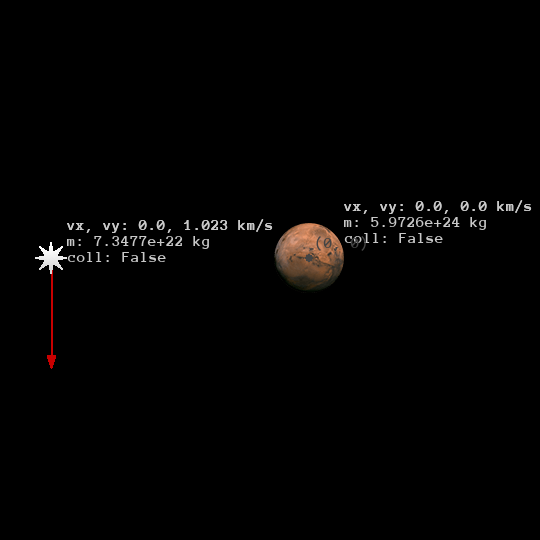
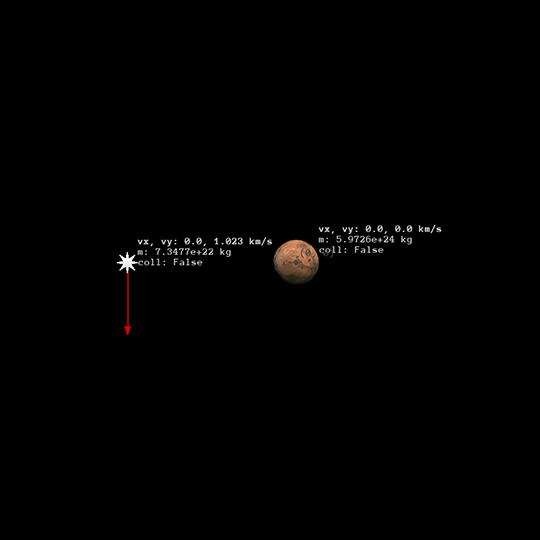
Сохранение
Добавлено:
- Сохранение текущей симуляции в виде папки с названием по типу "save-30-05-21 21-50-44", что соответствует времени в момент сохранения.
- Файл requirements.txt с необходимыми модулями.
- Инструкция запуска.

Изменено:
- Несколько превью симуляций сжаты.
- Изменён README.md.

Changed region(s): [[0.0593, 0.3556, 0.9778, 0.6815], [0.2074, 0.5926, 0.237, 0.6222]]

diff --git a/main.py b/main.py
@@ -24,7 +24,7 @@ else:
     COEFFICIENT = user.size[1] / 1080
 DIST_COEFF = 1e-6 # distance coefficient transformates meters to megameters
 G = 6.67430e-11 # real value = 6.67430e-11. You will need to use decimal to calculate that accurately
-SPEED = 60 * 60 * 24 # simulation speed
+SPEED = 60 * 60 * 24 # simulation speed in seconds
 DT = (1 / user.fps) * SPEED # time step for objects
 deafult_font = pygame.font.Font('data/Anonymous Pro B.ttf', round(24 * COEFFICIENT))
 obj_info_font = pygame.font.Font('data/Anonymous Pro B.ttf', round(16 * COEFFICIENT))
@@ -38,7 +38,7 @@ del(f_s)
 
 
 class obj:
-    def __init__(self, x, y, img, r, m, vx = 0.0, vy = 0.0):
+    def __init__(self, x, y, img, img_name, r, m, vx = 0.0, vy = 0.0):
         self.x = x # object class stores all physical quantities in the SI system
         self.y = y
         self.r = r
@@ -47,6 +47,7 @@ class obj:
         self.vy = vy
         self.img = img
         self.transformed_img = img
+        self.img_name = img_name
         self.coll = False # collision state (True if collision happened)
     def update(self, zoom: float):
         if self.img == 'circle': return
@@ -139,13 +140,16 @@ def init_simulation(obj_list: list, name: str, images: dict, user, COEFFICIENT=1
         obj_list = []
         for i in range(len(sim)):
             if len(sim[i]) != 5 and len(sim[i]) != 7: continue
-            try: img = images[sim[i][2]]
-            except: img = 'circle'
-            aStar = obj(float(sim[i][0]), float(sim[i][1]), img, float(sim[i][3]), float(sim[i][4])) # x, y, image, radius, mass
+            try: 
+                img = images[sim[i][2]]
+                img_name = sim[i][2]
+            except: 
+                img = img_name = 'circle'
+            anObject = obj(float(sim[i][0]), float(sim[i][1]), img, img_name, float(sim[i][3]), float(sim[i][4])) # x, y, image, image's name, radius, mass
             if len(sim[i]) > 5: # vx, vy
-                aStar.vx = float(sim[i][5])
-                aStar.vy = float(sim[i][6])
-            obj_list.append(aStar)
+                anObject.vx = float(sim[i][5])
+                anObject.vy = float(sim[i][6])
+            obj_list.append(anObject)
             if len(sim) > 1000 and i / len(sim) * 100 >= load:
                 load += 10
                 load_rect.width = load * 10 * COEFFICIENT
@@ -369,7 +373,7 @@ def main_menu(error=None, sim_content=None, langs=None, m_buttons=None, text_dic
     if error:
         error_text = deafult_font.render(error, True, '#ee1111')
         error_window = button(place=[35 * COEFFICIENT, user.size[1] - 75 * COEFFICIENT], size=(error_text.get_width() + 70 * COEFFICIENT, 50 * COEFFICIENT), color='#990000', button_text=error, font_size=round(24 * COEFFICIENT), font_color='#dddddd')
-        error_window_time = int(round(time() * 1000))
+        error_window_timer = int(round(time() * 1000))
     while menu_cycle:
         mx, my = pygame.mouse.get_pos()
         if m_buttons['choose_button'].body.collidepoint((mx, my)) and click:
@@ -404,7 +408,7 @@ def main_menu(error=None, sim_content=None, langs=None, m_buttons=None, text_dic
         m_buttons['help_button'].draw()
         m_buttons['exit_button'].draw()
         fps_val(False)
-        if error and int(round(time() * 1000)) - error_window_time < 5000:
+        if error and int(round(time() * 1000)) - error_window_timer < 5000:
             error_window.draw()
         user.screen.blit(images['logo'], ((user.size[0] - images['logo'].get_width()) // 2, (user.size[1] - images['logo'].get_height()) // 2 - m_buttons['choose_button'].size[1] * 2))
         pygame.display.update()
@@ -626,11 +630,12 @@ def settings_window(langs, menu_buttons, sim_content, text_dict, bkgr, user, COE
         clock.tick(user.fps)
 
 
-def ingame_main_menu(langs, menu_buttons, text_dict, sim_content, bkgr, user, COEFFICIENT):
+def ingame_main_menu(langs, menu_buttons, text_dict, sim_content, bkgr, user, sim_objects, COEFFICIENT):
     game_menu_cycle = True
     click = False
     k = 0.7
     switch = False
+    saved_window_timer = None
     transparent_surf = pygame.Surface(user.size)
     transparent_surf.set_alpha(196)
     transparent_surf.fill('#000000')
@@ -638,6 +643,20 @@ def ingame_main_menu(langs, menu_buttons, text_dict, sim_content, bkgr, user, CO
         mx, my = pygame.mouse.get_pos()
         if menu_buttons['continue_button'].body.collidepoint((mx, my)) and click:
             return True, langs, False # simulation's cycle, languages, exit from the program
+        elif menu_buttons['save_button'].body.collidepoint((mx, my)) and click:
+            name_of_saved = 'save-' + str(strftime('%x %X', strptime(ctime()))).replace('/', '-').replace(':', '-')
+            for item in os.listdir('simulations/'): # simulations's content
+                if not(item.startswith('.')) and not(os.path.isfile(os.path.join('simulations/', item))):
+                    if item == name_of_saved:
+                        break
+            else:
+                os.mkdir('simulations/' + name_of_saved)
+                saved_sim = open("simulations/" + name_of_saved + "/sim.data", "w+")
+                for obj in sim_objects:
+                    saved_sim.write('{} {} {} {} {} {} {}\n'.format(obj.x, obj.y, obj.img_name, obj.r, obj.m, obj.vx, obj.vy))
+                saved_text = deafult_font.render("Saved", True, '#ee1111')
+                saved_window = button(place=[35 * COEFFICIENT, user.size[1] - 75 * COEFFICIENT], size=(saved_text.get_width() + 70 * COEFFICIENT, 50 * COEFFICIENT), color='#009900', button_text="Saved.", font_size=round(24 * COEFFICIENT), font_color='#dddddd')
+                saved_window_timer = int(round(time() * 1000))
         elif menu_buttons['ingame_settings_button'].body.collidepoint((mx, my)) and click:
             game_menu_cycle, langs['curr_lang'], menu_buttons, sim_content, text_dict = settings_window(langs, menu_buttons, sim_content, text_dict, bkgr, user, COEFFICIENT)
         elif menu_buttons['ingame_help_button'].body.collidepoint((mx, my)) and click:
@@ -665,6 +684,8 @@ def ingame_main_menu(langs, menu_buttons, text_dict, sim_content, bkgr, user, CO
             switch = True
         else:
             switch = False
+        if saved_window_timer and int(round(time() * 1000)) - saved_window_timer < 3000:
+            saved_window.draw()
         menu_buttons['continue_button'].draw()
         menu_buttons['save_button'].draw()
         menu_buttons['ingame_settings_button'].draw()
@@ -715,7 +736,6 @@ def simulation_loop(space_objects, simulation_name, images, menu_buttons, simula
     sim_cycle = True
     pause = mode = False
     mx = my = None
-    img = None
     selected_obj = None
     simulation_time = 0
     if len(space_objects) > 1000:
@@ -735,7 +755,7 @@ def simulation_loop(space_objects, simulation_name, images, menu_buttons, simula
                 if event.key == K_ESCAPE:
                     screenshot_rect = pygame.Rect(0, 0, user.size[0], user.size[1])
                     screenshot = display_surf.subsurface(screenshot_rect) # screenshot of last objects' posotion
-                    sim_cycle, langs, exit_from_prog = ingame_main_menu(langs, menu_buttons, text_dict, simulations_content, screenshot, user, COEFFICIENT)
+                    sim_cycle, langs, exit_from_prog = ingame_main_menu(langs, menu_buttons, text_dict, simulations_content, screenshot, user, space_objects, COEFFICIENT)
                     if not(sim_cycle): 
                         space_objects = []
                         if exit_from_prog:
@@ -774,10 +794,10 @@ def simulation_loop(space_objects, simulation_name, images, menu_buttons, simula
                                     selected_obj = o
                                 break
                     elif not(shift_pressed):
-                        img = images['objects']['star_img']
-                        aStar = obj(int(mx / DIST_COEFF / zoom - movement[0] / DIST_COEFF), int(my / DIST_COEFF / zoom - movement[1] / DIST_COEFF), images['objects']['star_img'], 16e+6, 1e+22)
-                        aStar.transformed_img = pygame.transform.scale(img, (int(img.get_width() * zoom), int(img.get_height() * zoom)))
-                        space_objects.append(aStar)
+                        img_name = list(images['objects'].keys())[list(images['objects'].values()).index(images['objects']['star_img'])]
+                        anObject = obj(int(mx / DIST_COEFF / zoom - movement[0] / DIST_COEFF), int(my / DIST_COEFF / zoom - movement[1] / DIST_COEFF), images['objects']['star_img'], img_name, 16e+6, 1e+22)
+                        anObject.update(zoom)
+                        space_objects.append(anObject)
                 if event.button == 4: # mouse wheel forward
                     zoom += 0.005 + 0.05 * zoom
                     zoom = round(zoom, 3)
@@ -787,12 +807,13 @@ def simulation_loop(space_objects, simulation_name, images, menu_buttons, simula
                         zoom -= (0.005 + 0.05 * zoom)
                         zoom = round(zoom, 3)
                         [space_objects[i].update(zoom) for i in range(len(space_objects))]
+                        if zoom < 0.005: zoom = 0.005
             if event.type == MOUSEBUTTONUP:
                 if event.button == 1 and mx and shift_pressed and not(mode):
-                    img = images['objects']['star_img']
-                    aStar = obj(int(mx / DIST_COEFF / zoom - movement[0] / DIST_COEFF), int(my / DIST_COEFF / zoom - movement[1] / DIST_COEFF), images['objects']['star_img'], 16e+6, 1e+22, (pygame.mouse.get_pos()[0] - mx) * 10, (pygame.mouse.get_pos()[1] - my) * 10)
-                    aStar.transformed_img = pygame.transform.scale(img, (int(img.get_width() * zoom), int(img.get_height() * zoom)))
-                    space_objects.append(aStar)
+                    img_name = list(images['objects'].keys())[list(images['objects'].values()).index(images['objects']['star_img'])]
+                    anObject = obj(int(mx / DIST_COEFF / zoom - movement[0] / DIST_COEFF), int(my / DIST_COEFF / zoom - movement[1] / DIST_COEFF), images['objects']['star_img'], img_name, 16e+6, 1e+22, (pygame.mouse.get_pos()[0] - mx) * 10, (pygame.mouse.get_pos()[1] - my) * 10)
+                    anObject.update(zoom)
+                    space_objects.append(anObject)
             if event.type == KEYUP:
                 if event.key == K_d:
                     moving_right = False
@@ -842,7 +863,7 @@ def simulation_loop(space_objects, simulation_name, images, menu_buttons, simula
             fps_val(True, zoom, movement, space_objects[-1], len(space_objects), simulation_time, DIST_COEFF)
         else:
             fps_val(True, zoom, movement, None, 0, simulation_time, DIST_COEFF)
-        simulation_time += DT
+        if not(pause): simulation_time += DT
         pygame.display.update()
         clock.tick(user.fps)
 

diff --git a/README.md b/README.md
@@ -2,13 +2,32 @@
 ###### Made with pygame. 
 This project will provide an opportunity to observe physical phenomena described below and create your own simulations. 
 Active development is underway on the [test](https://github.com/bogtogus/Space_physics/tree/test) branch.
-Such physical phenomena as Newton's law of universal gravitation, the law of conservation of momentum, merging of objects will be taken into account. 
-In the future, it is possible to branch in the form of using the [pymunk](http://www.pymunk.org/en/latest/) module.
+Such physical phenomena as Newton's law of universal gravitation, the law of conservation of momentum are taken into account, merging of objects are not used yet. Perhaps the speed of gravitational interaction will be used, which is theoretically equal to the speed of light.
+I am not yet able to take into account [General relativity](https://en.wikipedia.org/wiki/General_relativity).
+ 
+In the future, it is possible to branch in the form of using the [pymunk](http://www.pymunk.org/en/latest/) module to calculate collisions.
 
 English is supported. I recommend using SQLite Studio to work with the database.
 Write your suggestions or ideas, I will be grateful.
 
-Some screenshots:
+## How to run:
+
+0. Install Python 3.7.7 or greater.
+
+1. Open your terminal in repository's folder using command "cd C:/Space_physics" for example.
+
+2. Type these commands to install modules: 
+
+```no-highlight
+
+pip install -r requirements.txt
+
+python main.py
+```
+
+
+
+### Some screenshots:
 
 <img src="https://user-images.githubusercontent.com/75621064/116752306-1267f900-aa0e-11eb-9362-358431a11afd.png" width="480">
 
